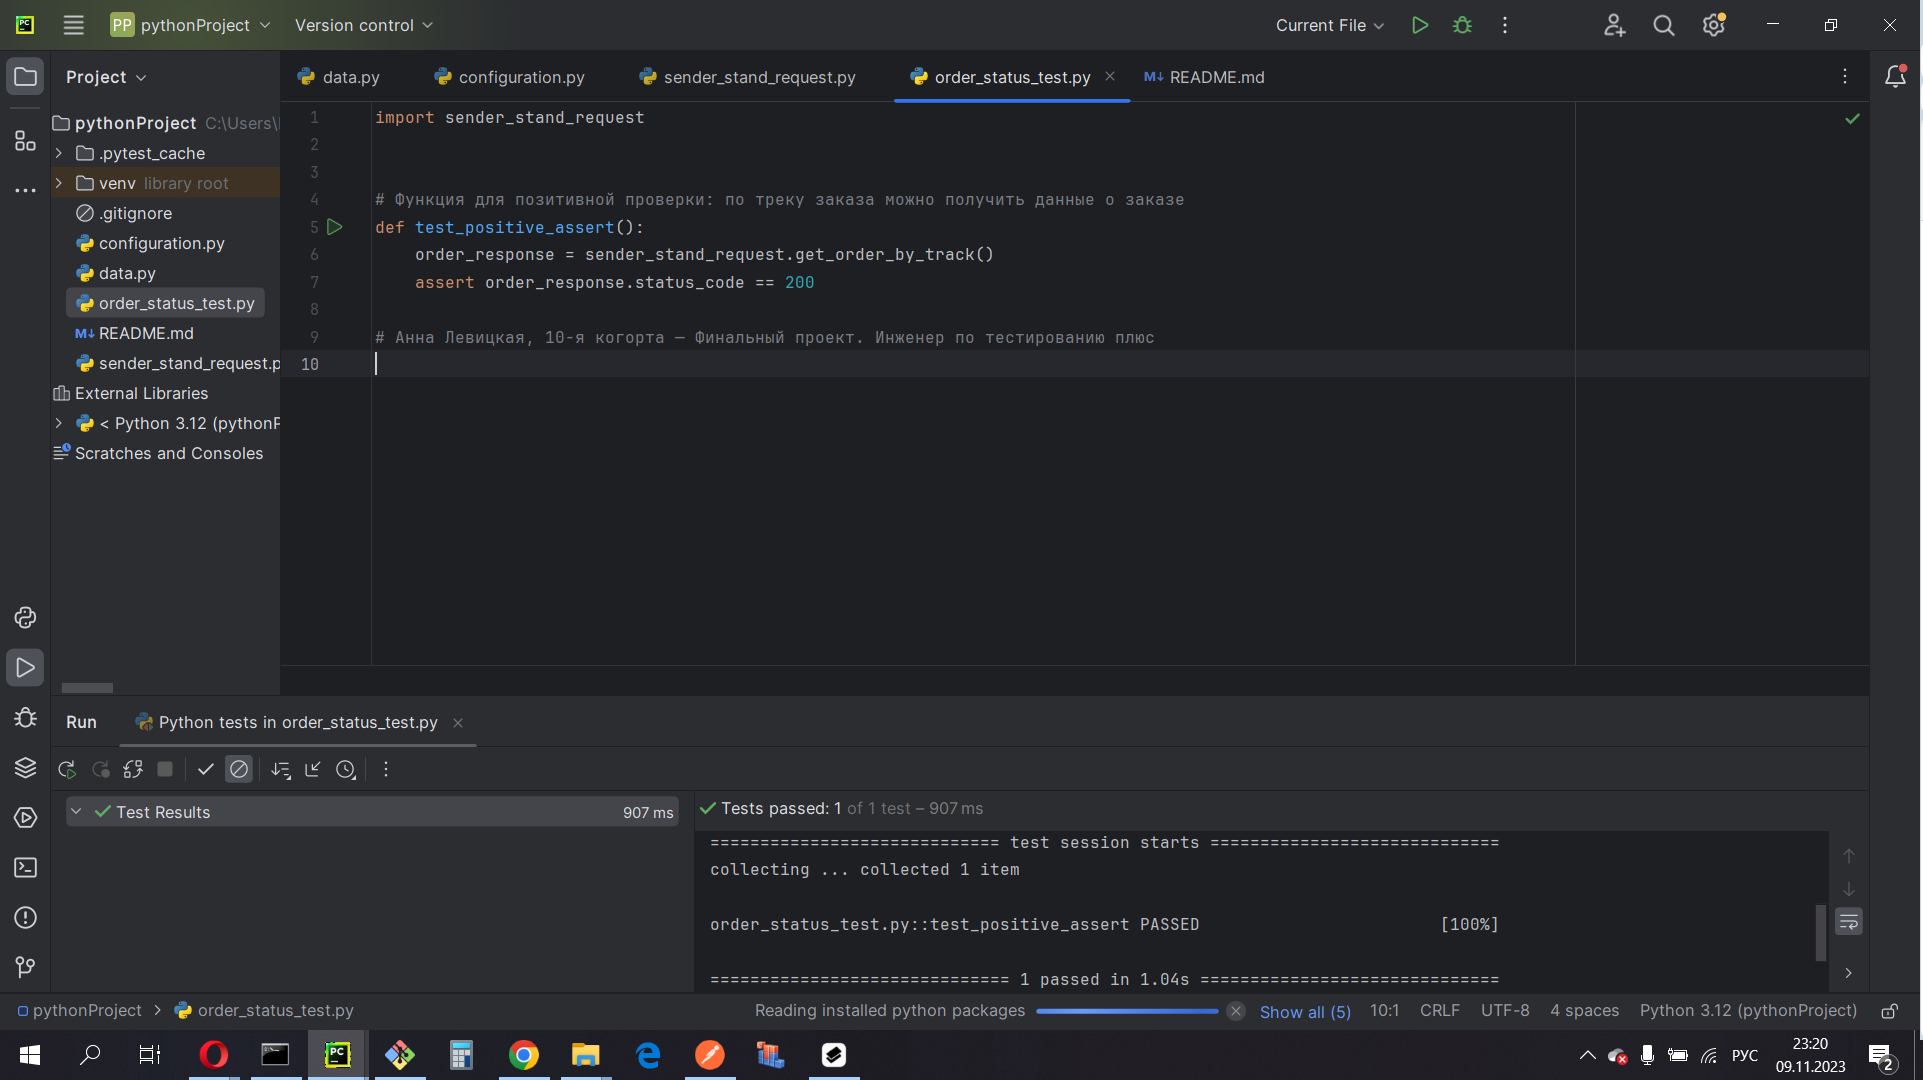
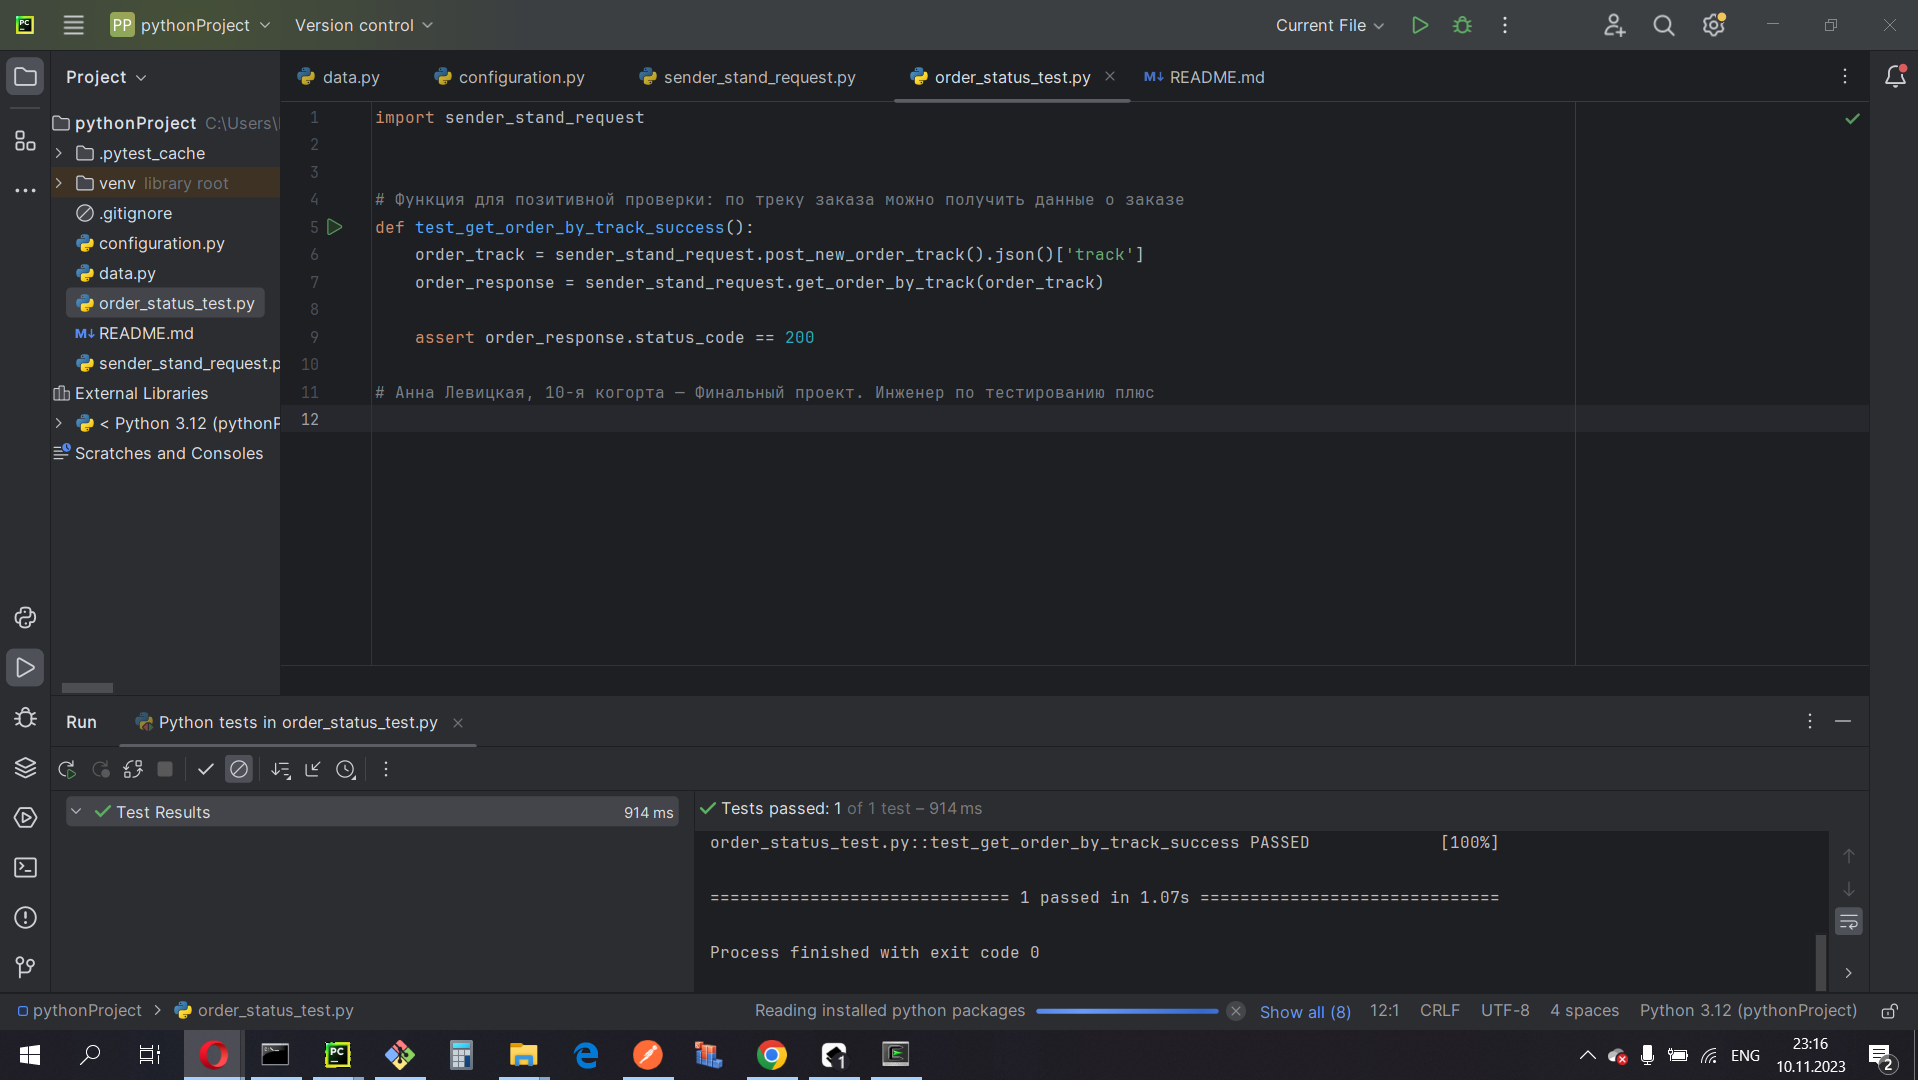
update code

diff --git a/sender_stand_request.py b/sender_stand_request.py
@@ -4,13 +4,11 @@ import requests
 
 
 # Функция для создания нового заказа
-def post_new_order_track(body):
+def post_new_order_track():
     return requests.post(configuration.URL_SERVICE + configuration.CREATE_ORDER_PATH,
-                         json=body)
+                         json=data.order_body)
 
 
 # Функция для получения заказа по номеру заказа
-def get_order_by_track():
-    response = post_new_order_track(data.order_body)
-    new_order_track = str (response.json()['track'])
-    return requests.get(configuration.URL_SERVICE + configuration.GET_ORDER_PATH + new_order_track)
+def get_order_by_track(track):
+    return requests.get(configuration.URL_SERVICE + configuration.GET_ORDER_PATH + str(track))

diff --git a/order_status_test.py b/order_status_test.py
@@ -2,6 +2,10 @@ import sender_stand_request
 
 
 # Функция для позитивной проверки: по треку заказа можно получить данные о заказе
-def test_positive_assert():
-    order_response = sender_stand_request.get_order_by_track()
+def test_get_order_by_track_success():
+    order_track = sender_stand_request.post_new_order_track().json()['track']
+    order_response = sender_stand_request.get_order_by_track(order_track)
+
     assert order_response.status_code == 200
+
+# Анна Левицкая, 10-я когорта — Финальный проект. Инженер по тестированию плюс
